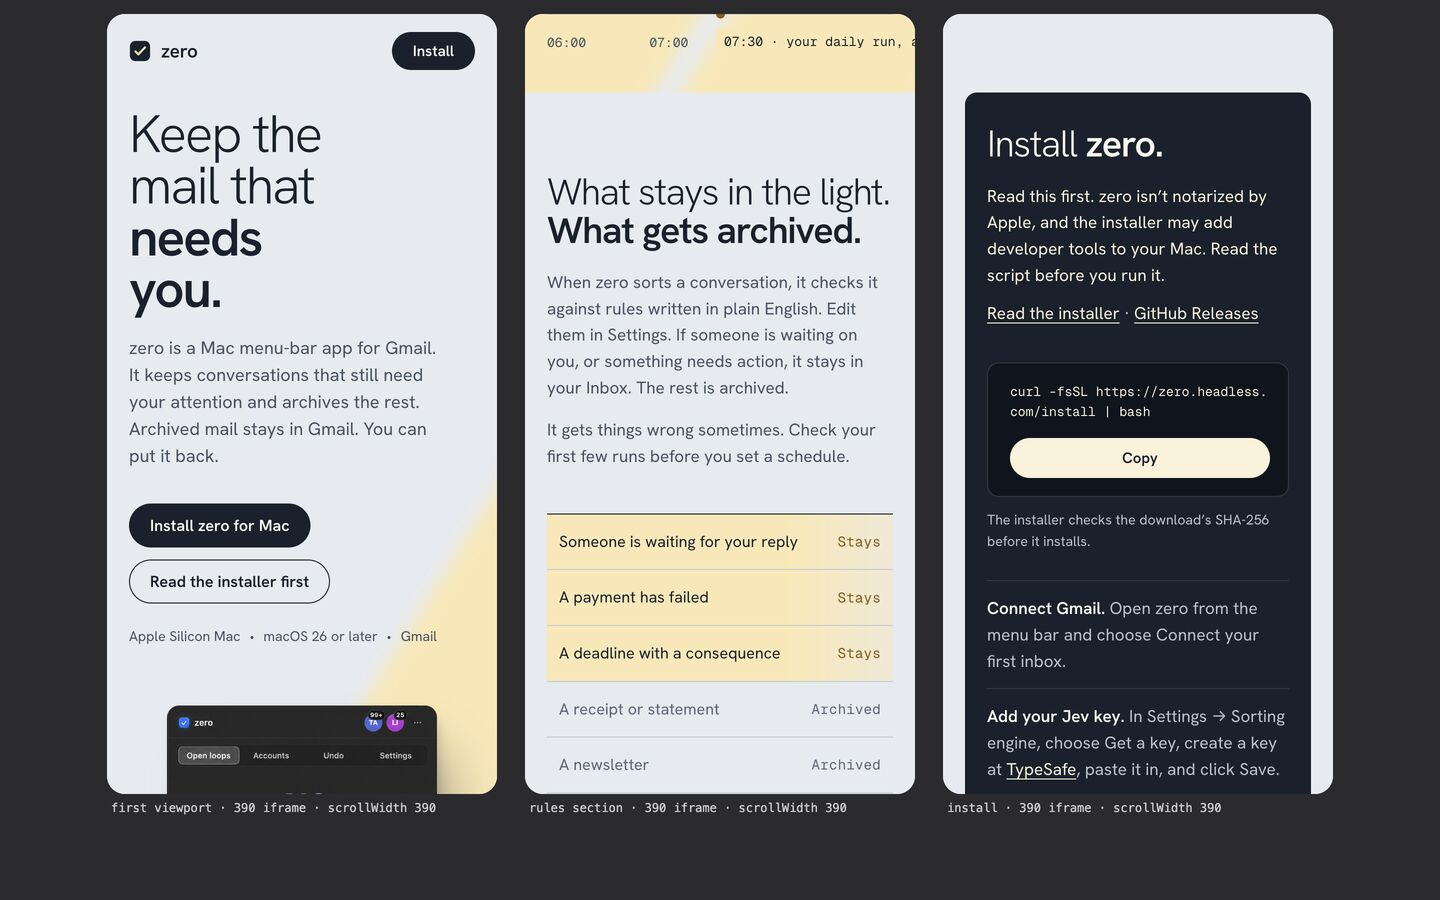
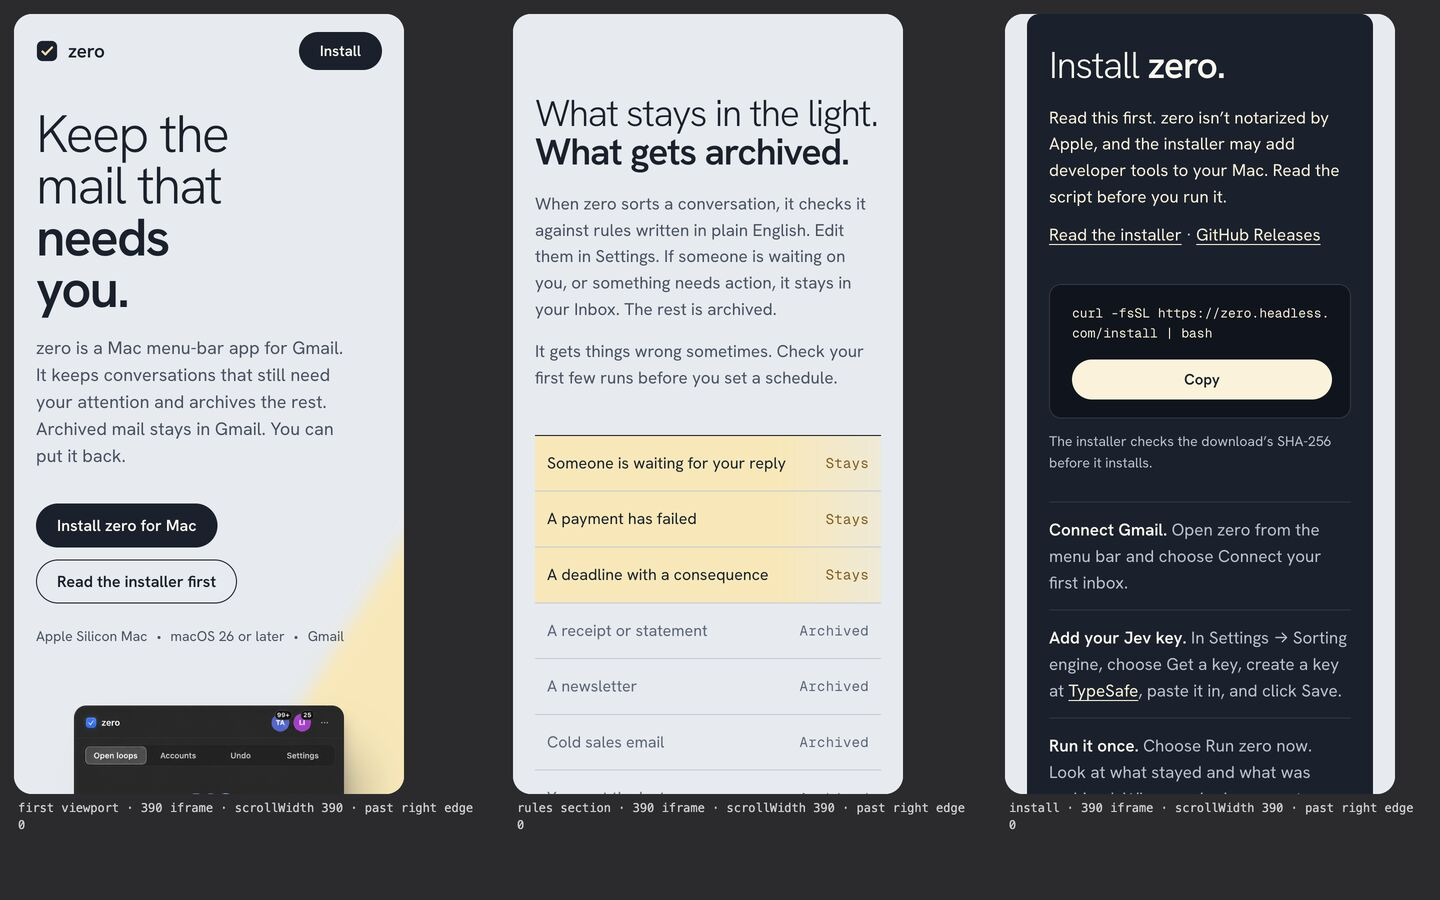
website-redesign-2/01: fix comp A time-rail label clipping at 390, add past-right-edge check with negative control

diff --git a/missions/website-redesign-2/slices/01-research-direction/proof/comps/phones.html b/missions/website-redesign-2/slices/01-research-direction/proof/comps/phones.html
@@ -25,7 +25,14 @@ for (const [hash, label] of [['', 'first viewport'], ['#sort', 'rules section'],
   fig.append(cap);
   f.addEventListener('load', () => setTimeout(() => {
     const d = f.contentDocument.documentElement;
-    cap.textContent = `${label} · 390 iframe · scrollWidth ${d.scrollWidth}`;
+    const w = d.clientWidth;
+    // scrollWidth alone misses content clipped by body{overflow-x:hidden}; also count visible elements whose box passes the right edge.
+    const over = [...f.contentDocument.body.querySelectorAll('*')].filter(el => {
+      if (el.closest('[aria-hidden="true"]')) return false;
+      const r = el.getBoundingClientRect();
+      return r.width > 0 && r.right > w + 1 && getComputedStyle(el).visibility !== 'hidden';
+    }).length;
+    cap.textContent = `${label} · 390 iframe · scrollWidth ${d.scrollWidth} · past right edge ${over}`;
   }, 1200));
   document.getElementById('r').append(fig);
 }

diff --git a/missions/website-redesign-2/slices/01-research-direction/proof/comps/a-first-light.html b/missions/website-redesign-2/slices/01-research-direction/proof/comps/a-first-light.html
@@ -134,7 +134,9 @@ footer span{margin-right:auto}
   .sun{inset:32% -60% -10% -20%}
   .table{width:78%}
   .callout{display:none}
-  .rail{margin-top:40px}
+  .rail{margin-top:40px;padding-bottom:104px}
+  .rail .now{right:0;gap:36px} /* label drops below the tick row so it never covers 09:00 */
+  .rail .now span{white-space:normal}
   section{padding:80px 0}
   .two{grid-template-columns:1fr;gap:28px}
   .rules div{padding:15px 12px;font-size:16px}

diff --git a/missions/website-redesign-2/slices/01-research-direction/PROOF.md b/missions/website-redesign-2/slices/01-research-direction/PROOF.md
@@ -6,7 +6,7 @@ Start with `proof/DESIGN-BRIEF.md`. It is the owner-facing summary and the decis
 |---|---|---|
 | Ten inspected URLs with dated evidence and distinct lessons | `proof/references.md`; `proof/refs/<key>-1.jpg` and `-2.jpg` (20 images) | Aside sessions `154401a085` (Linear, Stripe, Superhuman, HEY, Granola) and `3516485kda` (Raycast, Things, Teenage Engineering, Vercel, Arc, Tailscale, Mercury), 2026-09-29 UTC, at a 1440×900 CSS viewport. I viewed every capture. Vercel and Arc were dropped, and the atlas says why. |
 | Live page audit grounded in screenshots and feedback | `proof/DESIGN-BRIEF.md` §1; `proof/evidence/live-sort.jpg` and `live-rail.jpg` | Two live zero.headless.com frames captured by Aside (02:42 UTC on 2026-09-29), viewed again for this brief. The hero and warning claims were checked against the `landing/index.html` and `site.css` source (`.flap-board`, `sr-only` h1, `.warning` in `.install-band`). There is no committed hero frame. Plus the owner's "trash" rejection. |
-| Distinct replacement comps at desktop and mobile, with a static state | `proof/comps/a-first-light.html`, `b-one-bit.html`, `c-native.html` (add `?static`) and `phones.html?<comp>`; captures in `proof/shots/` (17 jpgs) | Aside task `745854eqrl` captured the top, sort and install sections of each comp at 1440, plus `?static`, A at t=0 and three 390 px iframes per comp. `scrollWidth` was 390 in every iframe. I reviewed every shot visually (montaged at 03:19Z and 03:23Z), and an earlier pass (`4188159rpo`) drove the fixes. A later sentence diff against `landing/index.html` restored two abridged install-step phrases in the HTML. The 3 install shots and 4 phone shots were then recaptured by Aside from a fresh `git clone` of `54b51a9` served on 127.0.0.1:8932, and viewed. They show the full steps, with `scrollWidth 390` in every iframe. |
+| Distinct replacement comps at desktop and mobile, with a static state | `proof/comps/a-first-light.html`, `b-one-bit.html`, `c-native.html` (add `?static`) and `phones.html?<comp>`; captures in `proof/shots/` (18 jpgs) | Aside task `745854eqrl` captured the top, sort and install sections of each comp at 1440, plus `?static`, A at t=0 and three 390 px iframes per comp. `scrollWidth` was 390 in every iframe. I reviewed every shot visually (montaged at 03:19Z and 03:23Z), and an earlier pass (`4188159rpo`) drove the fixes. A later sentence diff against `landing/index.html` restored two abridged install-step phrases in the HTML. The 3 install shots and 4 phone shots were then recaptured by Aside from a fresh `git clone` of `54b51a9` served on 127.0.0.1:8932, and viewed. They show the full steps, with `scrollWidth 390` in every iframe. Correction: `scrollWidth` could not see content clipped by `overflow-x:hidden`, and it missed A's rail label running off the edge at 390. `phones.html` now also reports `past right edge N`. The pre-fix A (served from HEAD) scored 2, the negative control. The fixed A, A-static, B and C score 0 in every frame. The rail label now wraps under the ticks (right 364 of 390, 0 ticks overlapped). All phone shots were recaptured, plus `a-rail-390.jpg`, and viewed. |
 | Owner viewing path | fresh clone of the repo | Every relative asset in every comp (fonts, `panel-cut.png`, the `assets/` symlink to `landing/assets`) returned HTTP 200 from the clone. GitHub and Releases links returned 200. The production `/install`, `/install.sh`, `/privacy.html` and `/terms.html` returned 302/302/200/200. TypeSafe keys returned 403 to curl. `#before` has no target in the comps (disclosed in the brief, §5). |
 | Copy fidelity | DESIGN-BRIEF §3 | A sentence-level diff of the comp text against the landing text lists every new or reworded line |
 | Concept derivation (impeccable concept-seed) | `proof/evidence/concept-derivation.md` | Product truth was checked against `landing/index.html`. The Jev line was corrected to the landing wording. |

diff --git a/missions/website-redesign-2/slices/01-research-direction/proof/DESIGN-BRIEF.md b/missions/website-redesign-2/slices/01-research-direction/proof/DESIGN-BRIEF.md
@@ -106,7 +106,7 @@ Choose **A, B or C** (or "A with B's folders", since the dated-folder idea can m
 ## 5. Method limits, stated honestly
 
 - The comps are code-rendered HTML, not generated images, and were captured by Aside at a 1440×900 CSS viewport.
-- **Mobile is a 390 px-wide same-origin iframe** (`comps/phones.html`), not device emulation: there is no mobile user agent, touch or DPR change. Aside cannot set a true viewport. All three comps measured `scrollWidth 390` at 390, so there is no horizontal overflow.
+- **Mobile is a 390 px-wide same-origin iframe** (`comps/phones.html`), not device emulation: there is no mobile user agent, touch or DPR change. Aside cannot set a true viewport. `scrollWidth 390` alone was not proof of no overflow. `body{overflow-x:hidden}` clips content without widening the page, and that is how A's time-rail label was cut off at 390 without the check noticing. Each phone caption now also counts visible elements whose right edge passes the viewport (`past right edge N`). The pre-fix A scored 2 in all three frames, the negative control. After the fix, A, A-static, B and C score 0 in every frame. The fixed rail label sits under the tick row at 390, at x 191 to 364 with 0 ticks overlapped (`shots/a-rail-390.jpg`). The counter only covers the right edge. Vertical clipping and overlap were checked by eye in the shots.
 - The first viewport, the rules section and install are comped. Before you install, the FAQ, privacy and terms are not.
 - A's sunbeam intensity is judged on one display only.
 - The comps' "Before you install" nav link (`#before`) has no target, because that section is not comped. `/install.sh`, `/privacy.html` and `/terms.html` are root paths. They 404 on a local comp server but resolve on production (checked 03:26Z: `/install` and `/install.sh` return 302 to GitHub, and privacy and terms return 200). `console.typesafe.ai/keys` returned 403 to curl (it is the same URL the live page uses, and it likely blocks non-browser clients), so that link is unverified from here.

diff --git a/missions/website-redesign-2/slices/01-research-direction/PROGRESS.md b/missions/website-redesign-2/slices/01-research-direction/PROGRESS.md
@@ -9,3 +9,4 @@
 - Status: **awaiting owner choice** (A, B or C). Slice 02 (rebuild) must not start until the owner approves a direction.
 - 03:25Z: Accuracy pass after the handoff. The critique now rests on source-checked claims (flap board, sr-only h1, warning box), and the 390 iframe and static shots were all viewed. A sentence diff restored two abridged install steps in the comps (the shots predate this). New comp lines are listed in DESIGN-BRIEF §3.
 - 03:28Z: At main-lead's request, recaptured the 3 install shots and 4 phone shots from a fresh clone of 54b51a9 (Aside). They now show the corrected install steps. Also checked the owner viewing path (all comp assets return 200 from the clone, and the production routes resolve) and recorded interpretations in DESIGN-BRIEF §6.
+- 03:43Z: main-lead flagged A's time-rail label as clipped at 390. Cause: a `nowrap` label at `left:50%`, hidden by `body{overflow-x:hidden}`, which `scrollWidth` cannot detect. Fixed only in the mobile media query: the label anchors right, wraps and sits under the tick row. `phones.html` now counts `past right edge` (2 before the fix, 0 after, in all comps). Recaptured phone shots and added `shots/a-rail-390.jpg`.
